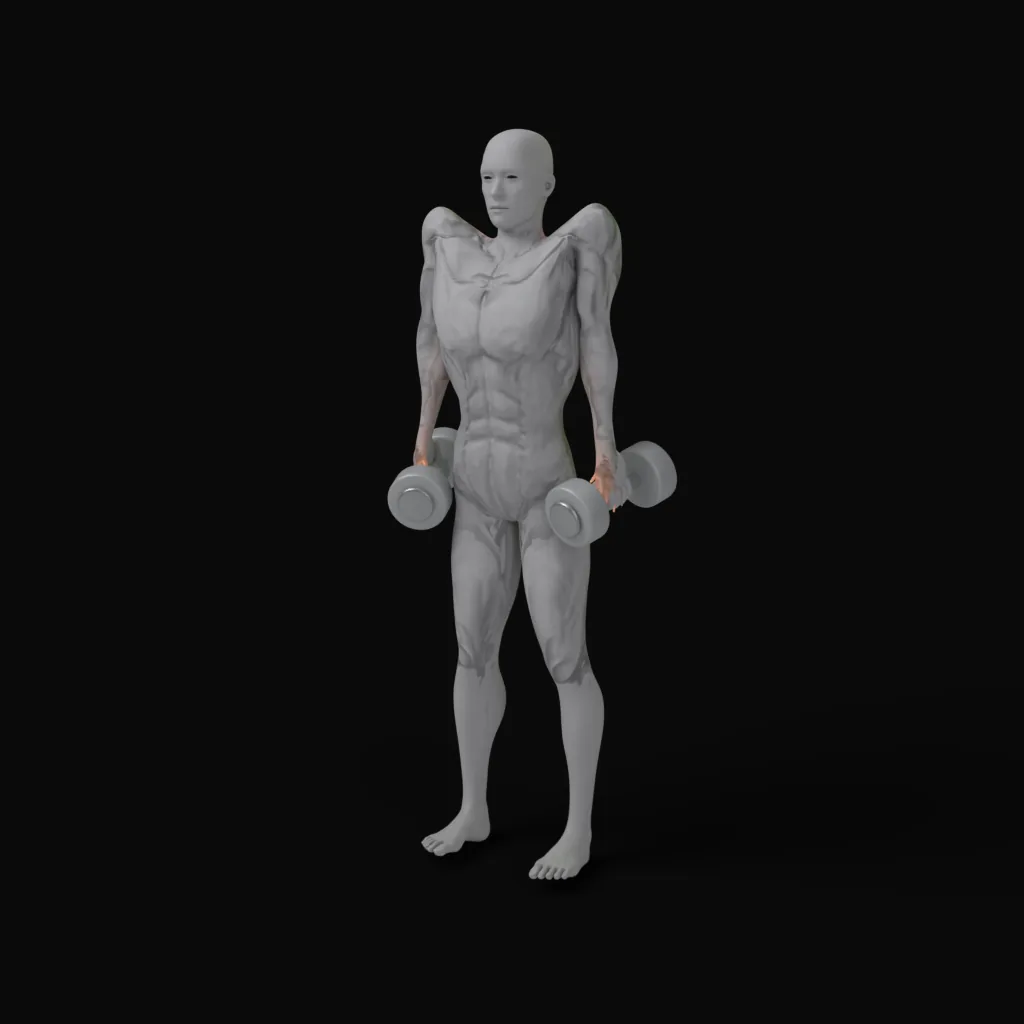
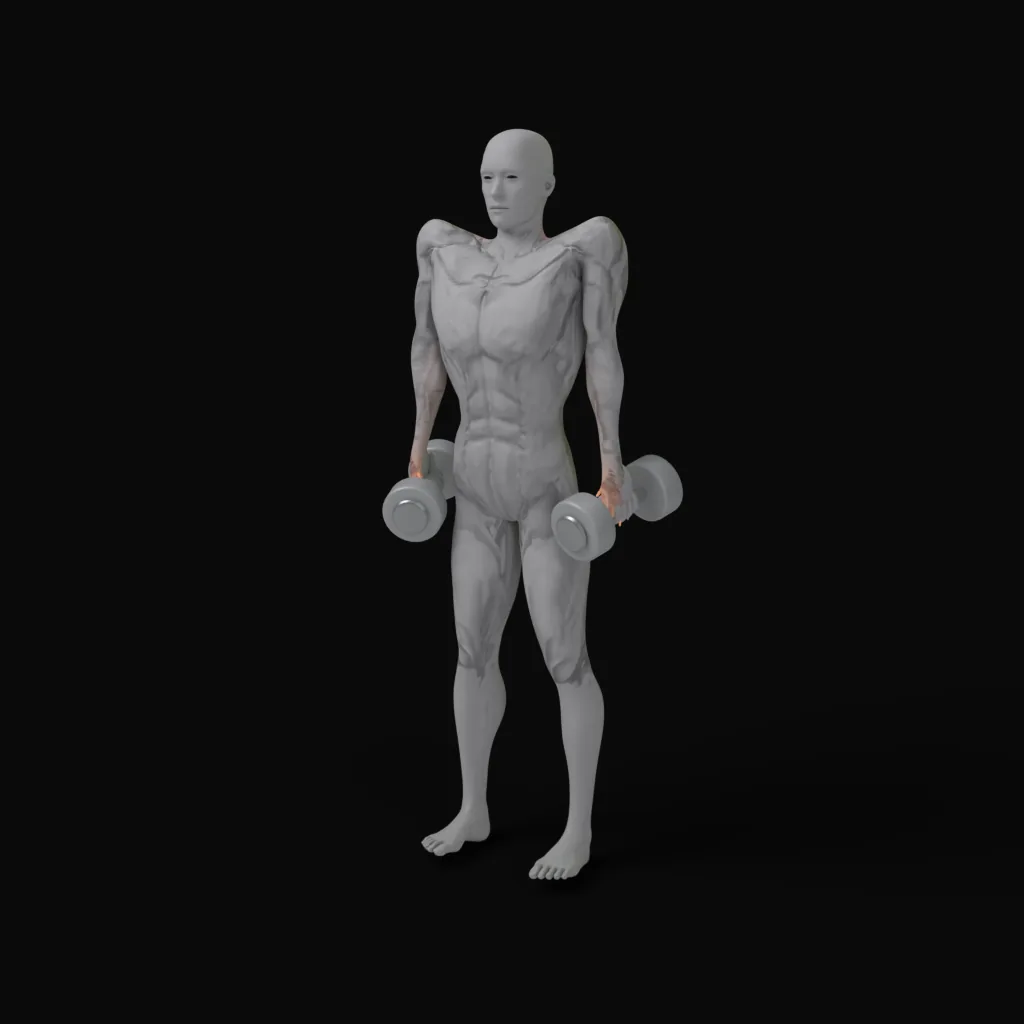
Swap the 6 fixed split exercises into the How to tab; shrug end toned down ~40% so the neck stays visible
Claude-Session: https://claude.ai/code/session_016jSEZ9cFjr2wxc85T9diLR

Changed region(s): [[0.5, 0.1875, 0.6875, 0.5625], [0.375, 0.1875, 0.4688, 0.5312]]

diff --git a/src/data/exercise-3d.ts b/src/data/exercise-3d.ts
@@ -9,6 +9,7 @@ export const EXERCISE_3D: Record<string, HowToImages> = {
   assisted_pull_ups: { start: require('../../assets/exercises-3d/assisted_pull_ups-start.webp'), end: require('../../assets/exercises-3d/assisted_pull_ups-end.webp'), source: 'clay' },
   back_squat: { start: require('../../assets/exercises-3d/back_squat-start.webp'), end: require('../../assets/exercises-3d/back_squat-end.webp'), source: 'clay' },
   ball_leg_curl: { start: require('../../assets/exercises-3d/ball_leg_curl-start.webp'), end: require('../../assets/exercises-3d/ball_leg_curl-end.webp'), source: 'clay' },
+  bb_bent_row: { start: require('../../assets/exercises-3d/bb_bent_row-start.webp'), end: require('../../assets/exercises-3d/bb_bent_row-end.webp'), source: 'clay' },
   bb_curl: { start: require('../../assets/exercises-3d/bb_curl-start.webp'), end: require('../../assets/exercises-3d/bb_curl-end.webp'), source: 'clay' },
   bb_ohp: { start: require('../../assets/exercises-3d/bb_ohp-start.webp'), end: require('../../assets/exercises-3d/bb_ohp-end.webp'), source: 'clay' },
   bb_reverse_curl: { start: require('../../assets/exercises-3d/bb_reverse_curl-start.webp'), end: require('../../assets/exercises-3d/bb_reverse_curl-end.webp'), source: 'clay' },
@@ -43,6 +44,7 @@ export const EXERCISE_3D: Record<string, HowToImages> = {
   db_rdl: { start: require('../../assets/exercises-3d/db_rdl-start.webp'), end: require('../../assets/exercises-3d/db_rdl-end.webp'), source: 'clay' },
   db_reverse_wrist_curl: { start: require('../../assets/exercises-3d/db_reverse_wrist_curl-start.webp'), end: require('../../assets/exercises-3d/db_reverse_wrist_curl-end.webp'), source: 'clay' },
   db_shoulder_press: { start: require('../../assets/exercises-3d/db_shoulder_press-start.webp'), end: require('../../assets/exercises-3d/db_shoulder_press-end.webp'), source: 'clay' },
+  db_shrug: { start: require('../../assets/exercises-3d/db_shrug-start.webp'), end: require('../../assets/exercises-3d/db_shrug-end.webp'), source: 'clay' },
   db_wrist_curl: { start: require('../../assets/exercises-3d/db_wrist_curl-start.webp'), end: require('../../assets/exercises-3d/db_wrist_curl-end.webp'), source: 'clay' },
   ez_curl: { start: require('../../assets/exercises-3d/ez_curl-start.webp'), end: require('../../assets/exercises-3d/ez_curl-end.webp'), source: 'clay' },
   face_pull: { start: require('../../assets/exercises-3d/face_pull-start.webp'), end: require('../../assets/exercises-3d/face_pull-end.webp'), source: 'clay' },
@@ -76,6 +78,7 @@ export const EXERCISE_3D: Record<string, HowToImages> = {
   machine_curl: { start: require('../../assets/exercises-3d/machine_curl-start.webp'), end: require('../../assets/exercises-3d/machine_curl-end.webp'), source: 'clay' },
   machine_row: { start: require('../../assets/exercises-3d/machine_row-start.webp'), end: require('../../assets/exercises-3d/machine_row-end.webp'), source: 'clay' },
   machine_shoulder_press: { start: require('../../assets/exercises-3d/machine_shoulder_press-start.webp'), end: require('../../assets/exercises-3d/machine_shoulder_press-end.webp'), source: 'clay' },
+  overhead_db_ext: { start: require('../../assets/exercises-3d/overhead_db_ext-start.webp'), end: require('../../assets/exercises-3d/overhead_db_ext-end.webp'), source: 'clay' },
   pec_deck: { start: require('../../assets/exercises-3d/pec_deck-start.webp'), end: require('../../assets/exercises-3d/pec_deck-end.webp'), source: 'clay' },
   plank: { start: require('../../assets/exercises-3d/plank-start.webp'), end: require('../../assets/exercises-3d/plank-end.webp'), source: 'clay' },
   plate_front_raise: { start: require('../../assets/exercises-3d/plate_front_raise-start.webp'), end: require('../../assets/exercises-3d/plate_front_raise-end.webp'), source: 'clay' },
@@ -85,9 +88,11 @@ export const EXERCISE_3D: Record<string, HowToImages> = {
   push_ups: { start: require('../../assets/exercises-3d/push_ups-start.webp'), end: require('../../assets/exercises-3d/push_ups-end.webp'), source: 'clay' },
   rdl: { start: require('../../assets/exercises-3d/rdl-start.webp'), end: require('../../assets/exercises-3d/rdl-end.webp'), source: 'clay' },
   rear_delt_fly: { start: require('../../assets/exercises-3d/rear_delt_fly-start.webp'), end: require('../../assets/exercises-3d/rear_delt_fly-end.webp'), source: 'clay' },
+  rear_raise: { start: require('../../assets/exercises-3d/rear_raise-start.webp'), end: require('../../assets/exercises-3d/rear_raise-end.webp'), source: 'clay' },
   reverse_cable_curl: { start: require('../../assets/exercises-3d/reverse_cable_curl-start.webp'), end: require('../../assets/exercises-3d/reverse_cable_curl-end.webp'), source: 'clay' },
   reverse_wrist_curl: { start: require('../../assets/exercises-3d/reverse_wrist_curl-start.webp'), end: require('../../assets/exercises-3d/reverse_wrist_curl-end.webp'), source: 'clay' },
   rope_hammer_curl: { start: require('../../assets/exercises-3d/rope_hammer_curl-start.webp'), end: require('../../assets/exercises-3d/rope_hammer_curl-end.webp'), source: 'clay' },
+  rope_pushdown: { start: require('../../assets/exercises-3d/rope_pushdown-start.webp'), end: require('../../assets/exercises-3d/rope_pushdown-end.webp'), source: 'clay' },
   rope_straight_arm: { start: require('../../assets/exercises-3d/rope_straight_arm-start.webp'), end: require('../../assets/exercises-3d/rope_straight_arm-end.webp'), source: 'clay' },
   seated_cable_row: { start: require('../../assets/exercises-3d/seated_cable_row-start.webp'), end: require('../../assets/exercises-3d/seated_cable_row-end.webp'), source: 'clay' },
   seated_calf_raise: { start: require('../../assets/exercises-3d/seated_calf_raise-start.webp'), end: require('../../assets/exercises-3d/seated_calf_raise-end.webp'), source: 'clay' },
@@ -109,6 +114,7 @@ export const EXERCISE_3D: Record<string, HowToImages> = {
   tbar_row: { start: require('../../assets/exercises-3d/tbar_row-start.webp'), end: require('../../assets/exercises-3d/tbar_row-end.webp'), source: 'clay' },
   trap_bar_carry: { start: require('../../assets/exercises-3d/trap_bar_carry-start.webp'), end: require('../../assets/exercises-3d/trap_bar_carry-end.webp'), source: 'clay' },
   triceps_dips: { start: require('../../assets/exercises-3d/triceps_dips-start.webp'), end: require('../../assets/exercises-3d/triceps_dips-end.webp'), source: 'clay' },
+  triceps_pushdown: { start: require('../../assets/exercises-3d/triceps_pushdown-start.webp'), end: require('../../assets/exercises-3d/triceps_pushdown-end.webp'), source: 'clay' },
   vbar_pulldown: { start: require('../../assets/exercises-3d/vbar_pulldown-start.webp'), end: require('../../assets/exercises-3d/vbar_pulldown-end.webp'), source: 'clay' },
   vbar_pushdown: { start: require('../../assets/exercises-3d/vbar_pushdown-start.webp'), end: require('../../assets/exercises-3d/vbar_pushdown-end.webp'), source: 'clay' },
   weighted_push_ups: { start: require('../../assets/exercises-3d/weighted_push_ups-start.webp'), end: require('../../assets/exercises-3d/weighted_push_ups-end.webp'), source: 'clay' },

diff --git a/render/poses/generate.py b/render/poses/generate.py
@@ -132,7 +132,7 @@ STRAIGHT_E = arms([0.12, 0.1, -1], [0.1, 0.05, -1])
 SHRUG_S = {'clav_L': [1, 0, -0.08], **ARMS_DOWN}
 SHRUG_E = {'clav_L': [1, 0, 0.35], **ARMS_DOWN}
 # Dumbbell shrug END, exaggerated so the raised shoulders read at thumbnail size.
-SHRUG_E_BIG = {'clav_L': [1, 0, 0.62], **ARMS_DOWN}
+SHRUG_E_BIG = {'clav_L': [1, 0, 0.4], **ARMS_DOWN}
 UPRIGHT_E = {'clav_L': [1, 0, 0.2], **arms([0.95, -0.15, 0.2], [-0.55, -0.35, -0.75])}
 FACE_PULL_S = arms([0.12, -1, 0.15], [0.08, -1, 0.15])
 FACE_PULL_E = arms([0.95, 0.15, 0.1], [-0.25, -0.3, 0.92])
